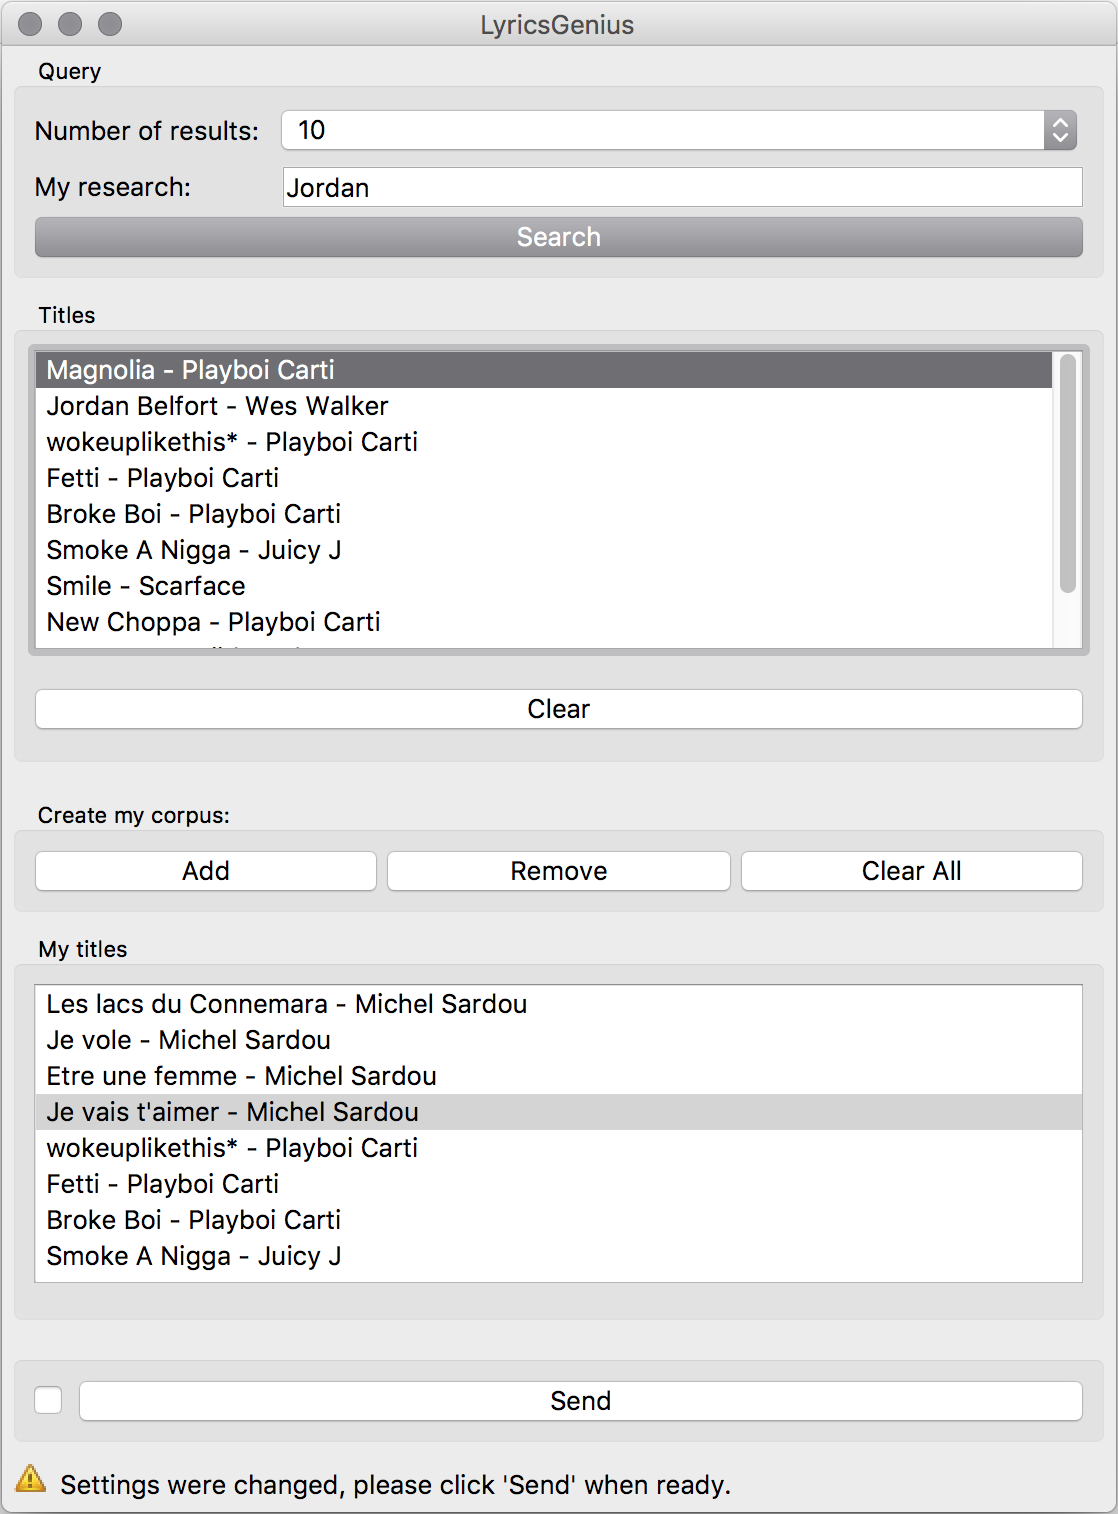
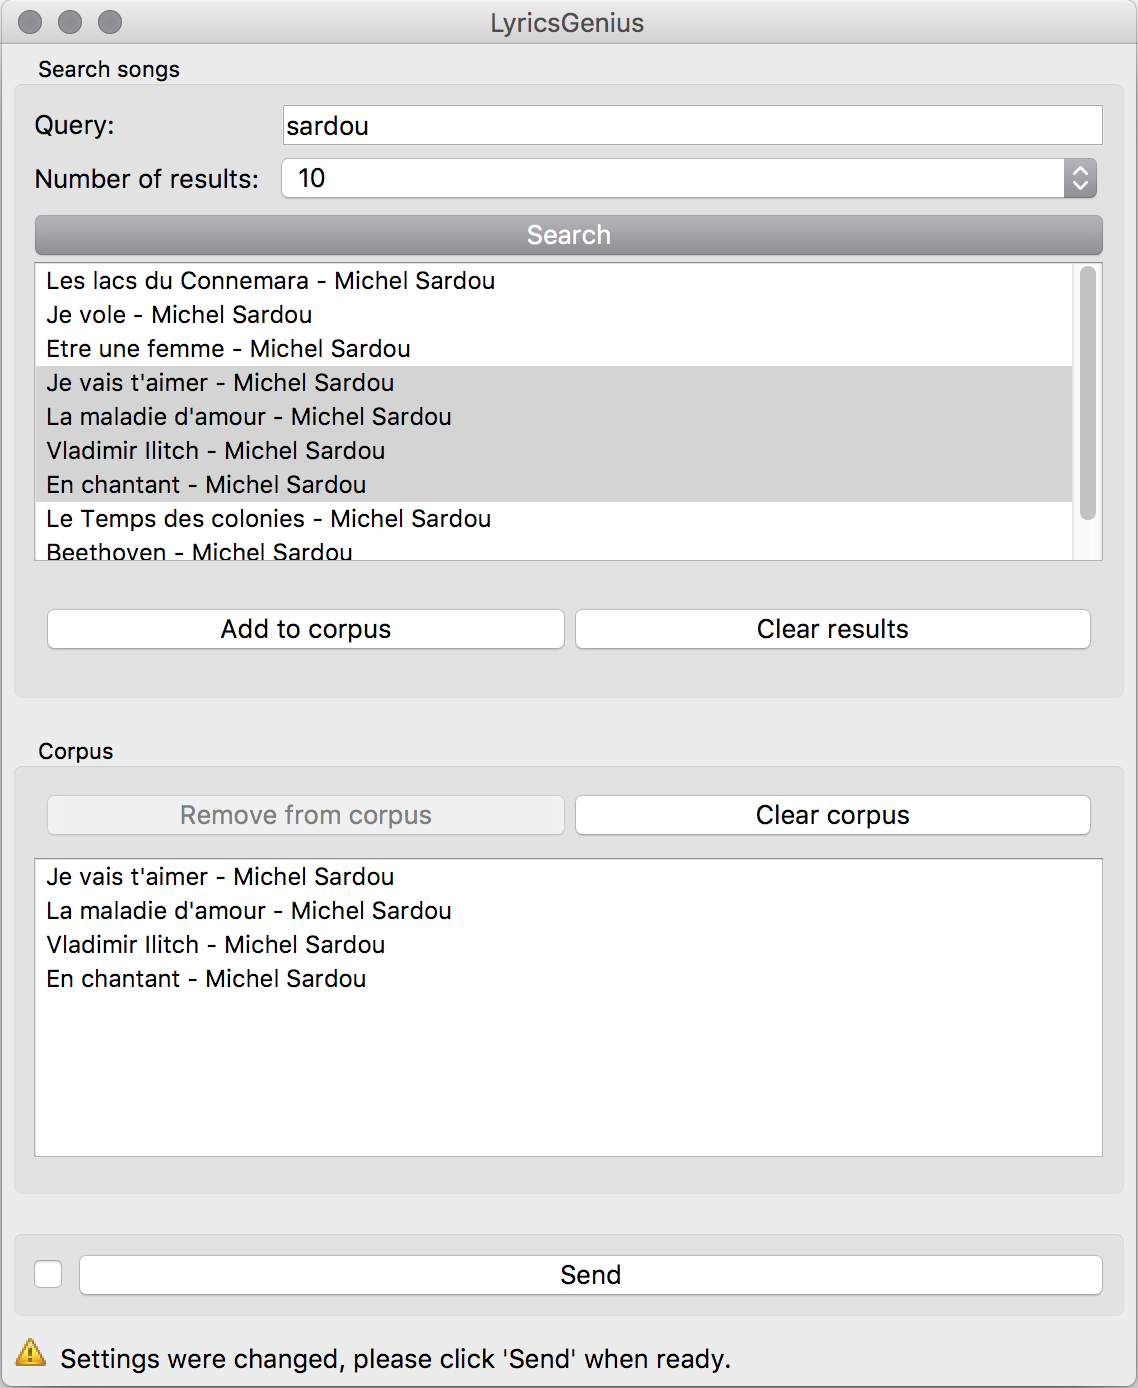
finish

diff --git a/orangecontrib/textable_prototypes/widgets/LyricsGenius.py b/orangecontrib/textable_prototypes/widgets/LyricsGenius.py
@@ -115,8 +115,19 @@ class LyricsGenius(OWTextableBaseWidget):
         # Create the working area
         queryBox = gui.widgetBox(
             widget=self.controlArea,
-            box="Query",
+            box="Search songs",
             orientation="vertical",
+        )
+        # Allows to enter specific text to the research
+        #  Uses "newQuery" attribut
+        gui.lineEdit(
+            widget=queryBox,
+            master=self,
+            value='newQuery',
+            orientation='horizontal',
+            label=u"Query: ",
+            labelWidth=120,
+            tooltip=("Enter a string"),
         )
 
         # Allows to choose the wanted results numberp (10 by 10)
@@ -144,18 +155,6 @@ class LyricsGenius(OWTextableBaseWidget):
             ),
         )
 
-        # Allows to enter specific text to the research
-        #  Uses "newQuery" attribut
-        gui.lineEdit(
-            widget=queryBox,
-            master=self,
-            value='newQuery',
-            orientation='horizontal',
-            label=u"My research: ",
-            labelWidth=120,
-            tooltip=("Enter a string"),
-        )
-
         # Reasearch button
         # Uses "searchFunction" attribut
         self.searchButton = gui.button(
@@ -165,16 +164,8 @@ class LyricsGenius(OWTextableBaseWidget):
             callback=self.searchFunction,
             tooltip="Connect Genius and make a research",
         )
-
-        # Creates a list allowing to select results
-        # Uses "selectedTitles" attribut
-        titleBox = gui.widgetBox(
-            widget=self.controlArea,
-            box="Titles",
-            orientation="vertical",
-        )
         self.titleListbox = gui.listBox(
-            widget=titleBox,
+            widget=queryBox,
             master=self,
             value="selectedTitles",    # setting (list)
             labels="titleLabels",      # setting (list)
@@ -183,32 +174,19 @@ class LyricsGenius(OWTextableBaseWidget):
         )
         self.titleListbox.setMinimumHeight(150)
         self.titleListbox.setSelectionMode(3)
-        gui.separator(widget=titleBox, height=3)
+        gui.separator(widget=queryBox, height=3)
         gui.rubber(self.controlArea)
 
-        # Clear button
-        # Uses "clearResults" function
-        self.clearButton = gui.button(
-            widget=titleBox,
-            master=self,
-            label="Clear",
-            callback=self.clearResults,
-            tooltip="Clear results",
+        boxbutton = gui.widgetBox(
+            widget=queryBox,
+            box=False,
+            orientation='horizontal',
         )
-        self.clearButton.setDisabled(True)
-
-        # Create the working area
-        opperationBox = gui.widgetBox(
-            widget=self.controlArea,
-            box="Create my corpus: ",
-            orientation="horizontal",
-        )
-
         # Add songs button
         self.addButton = gui.button(
-            widget=opperationBox,
+            widget=boxbutton,
             master=self,
-            label=u'Add',
+            label=u'Add to corpus',
             callback=self.add,
             tooltip=(
                 u"Move the selected song downward in your corpus."
@@ -216,11 +194,33 @@ class LyricsGenius(OWTextableBaseWidget):
         )
         self.addButton.setDisabled(True)
 
+        # Clear button
+        # Uses "clearResults" function
+        self.clearButton = gui.button(
+            widget=boxbutton,
+            master=self,
+            label="Clear results",
+            callback=self.clearResults,
+            tooltip="Clear results",
+        )
+        self.clearButton.setDisabled(True)
+
+        # area where confirmed songs are moved and stocked
+        mytitleBox = gui.widgetBox(
+            widget=self.controlArea,
+            box="Corpus",
+            orientation="vertical",
+        )
+        boxbutton2 = gui.widgetBox(
+            widget=mytitleBox,
+            box=False,
+            orientation='horizontal',
+        )
         # Remove songs button
         self.removeButton = gui.button(
-            widget=opperationBox,
+            widget=boxbutton2,
             master=self,
-            label=u'Remove',
+            label=u'Remove from corpus',
             callback=self.remove,
             tooltip=(
                 u"Remove the selected song from your corpus."
@@ -230,9 +230,9 @@ class LyricsGenius(OWTextableBaseWidget):
 
         # Delete all confirmed songs button
         self.clearmyBasket = gui.button(
-            widget=opperationBox,
+            widget=boxbutton2,
             master=self,
-            label=u'Clear All',
+            label=u'Clear corpus',
             callback=self.clearmyBasket,
             tooltip=(
                 u"Remove all songs from your corpus."
@@ -240,12 +240,6 @@ class LyricsGenius(OWTextableBaseWidget):
         )
         self.clearmyBasket.setDisabled(True)
 
-        # area where confirmed songs are moved and stocked
-        mytitleBox = gui.widgetBox(
-            widget=self.controlArea,
-            box="My titles",
-            orientation="vertical",
-        )
         self.mytitleListbox = gui.listBox(
             widget=mytitleBox,
             master=self,
@@ -256,7 +250,7 @@ class LyricsGenius(OWTextableBaseWidget):
         )
         self.mytitleListbox.setMinimumHeight(150)
         self.mytitleListbox.setSelectionMode(3)
-        gui.separator(widget=titleBox, height=3)
+        gui.separator(widget=queryBox, height=3)
         gui.rubber(self.controlArea)
         #----------------------------------------------------------------------
 
